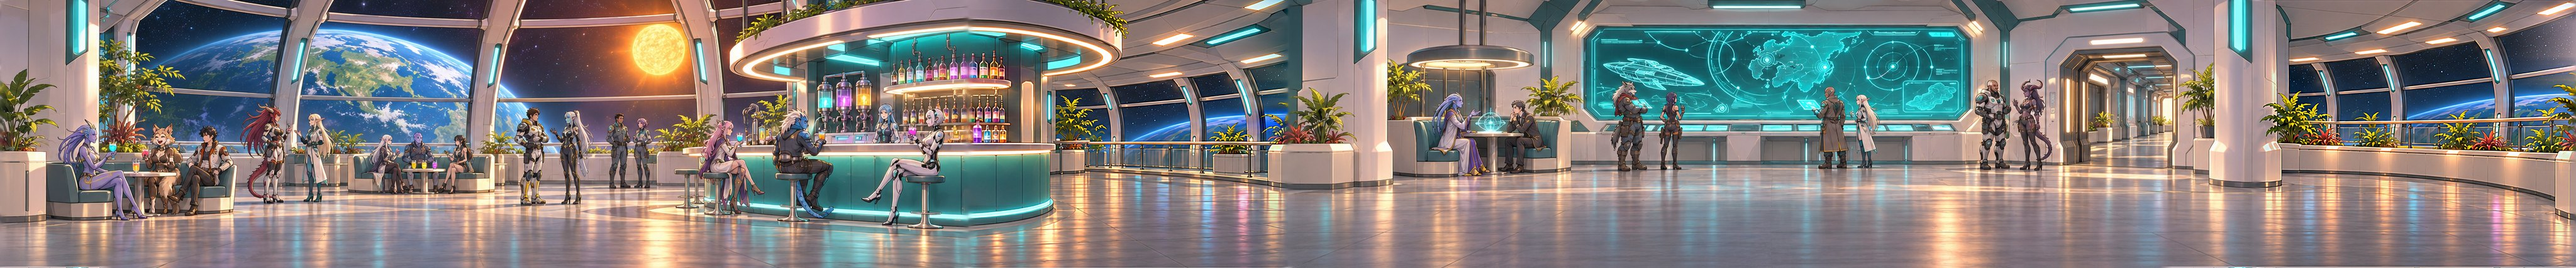
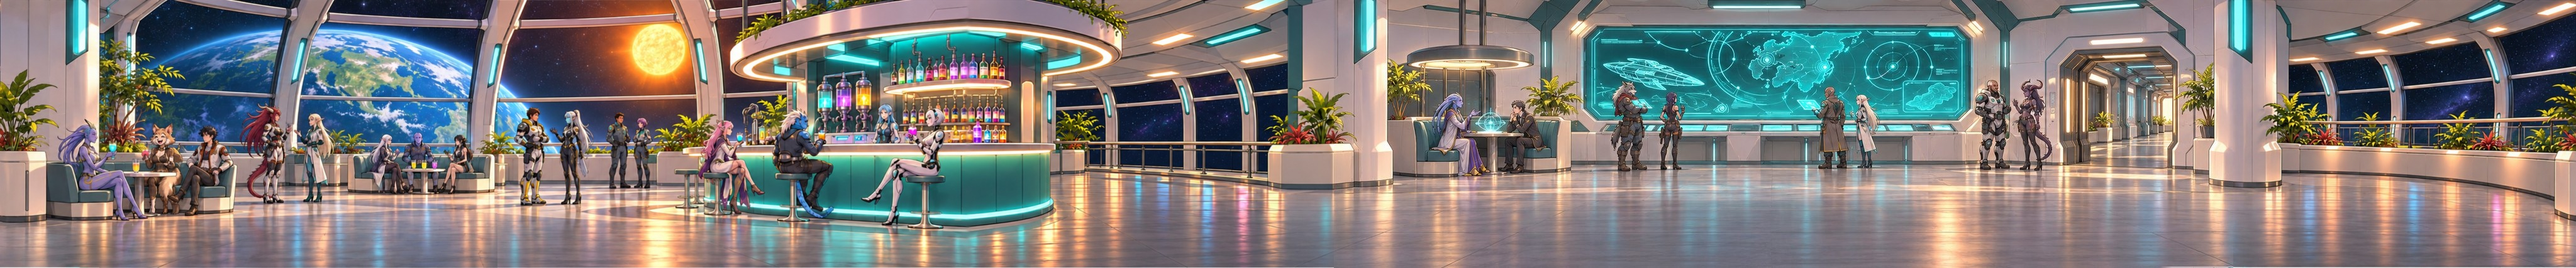
v13.95: Liberty Hub lounge has one planet (extra planets painted out of the windows)
Claude-Session: https://claude.ai/code/session_01SinQW9aeLHqCBjq9e21Gyo

diff --git a/web_shell.html b/web_shell.html
@@ -4,8 +4,8 @@
 <meta charset="utf-8">
 <meta name="viewport" content="width=device-width,initial-scale=1,maximum-scale=1,user-scalable=no,viewport-fit=cover">
 <meta name="theme-color" content="#f6f9fc">
-<meta name="hl-version" content="v13.94">
-<title>Homelancer Digital v13.94</title>
+<meta name="hl-version" content="v13.95">
+<title>Homelancer Digital v13.95</title>
 <style>
 *{box-sizing:border-box}
 html,body{margin:0;width:100%;height:100%;background:#f6f9fc;color:#0e2f5a;font:16px system-ui,sans-serif;overflow:hidden;touch-action:none}

diff --git a/docs/V1.2_BUILD.md b/docs/V1.2_BUILD.md
@@ -2404,3 +2404,6 @@ the camera automatically does a zoom to that section ... helmet, body, lower bod
 
 ## v13.94
 - Owner (screenshot): the clip he doesn't want is the SECOND clip 2 (the blonde pilot in the white suit walks right up and fills the screen). Liberty Hub hub = new clip 1 + FIRST clip 2 + clip 3, one loop.
+
+## v13.95
+- Owner: Liberty Hub lounge showed three planets. ChatGPT repainted the bar-side and far windows as plain starry space (owner's pictures); aligned (SIFT) and put back into the still assets/rooms/loc/solara_libertyhub_lounge.jpg. Seams 791 / 2121 / 3551 unchanged and invisible. Only one planet now (the main window with the sun).
